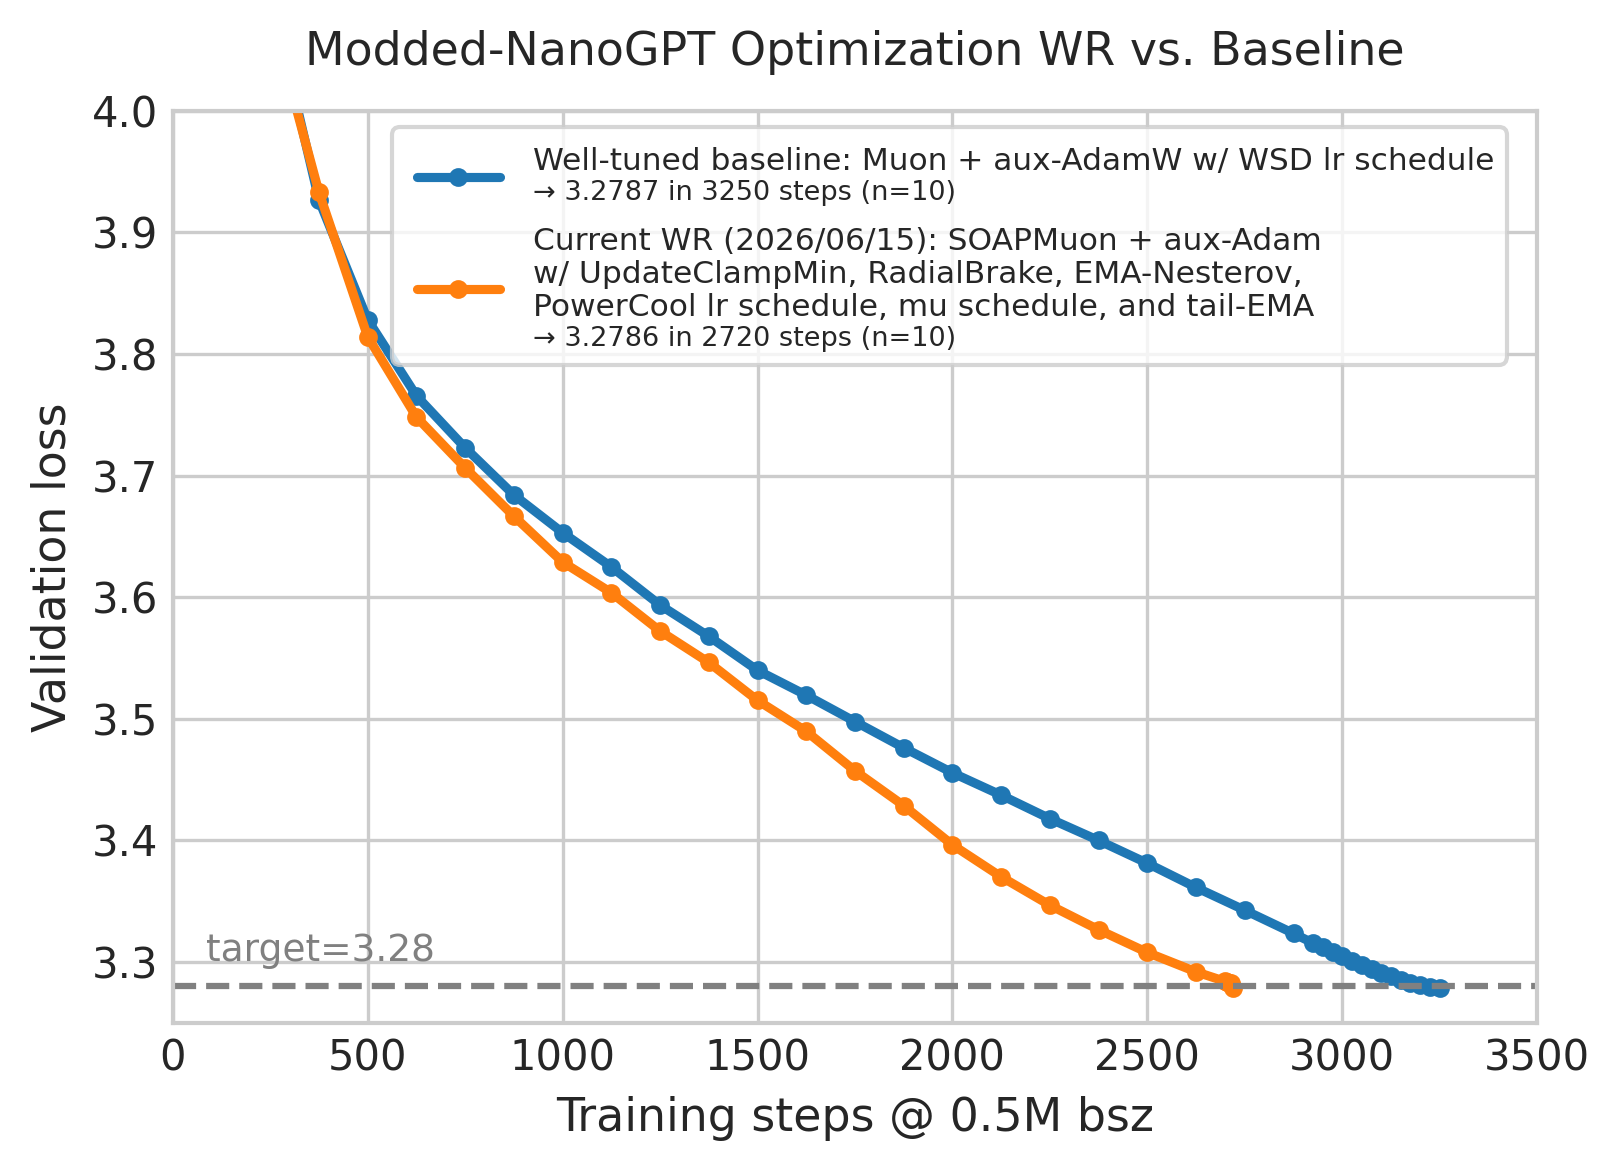
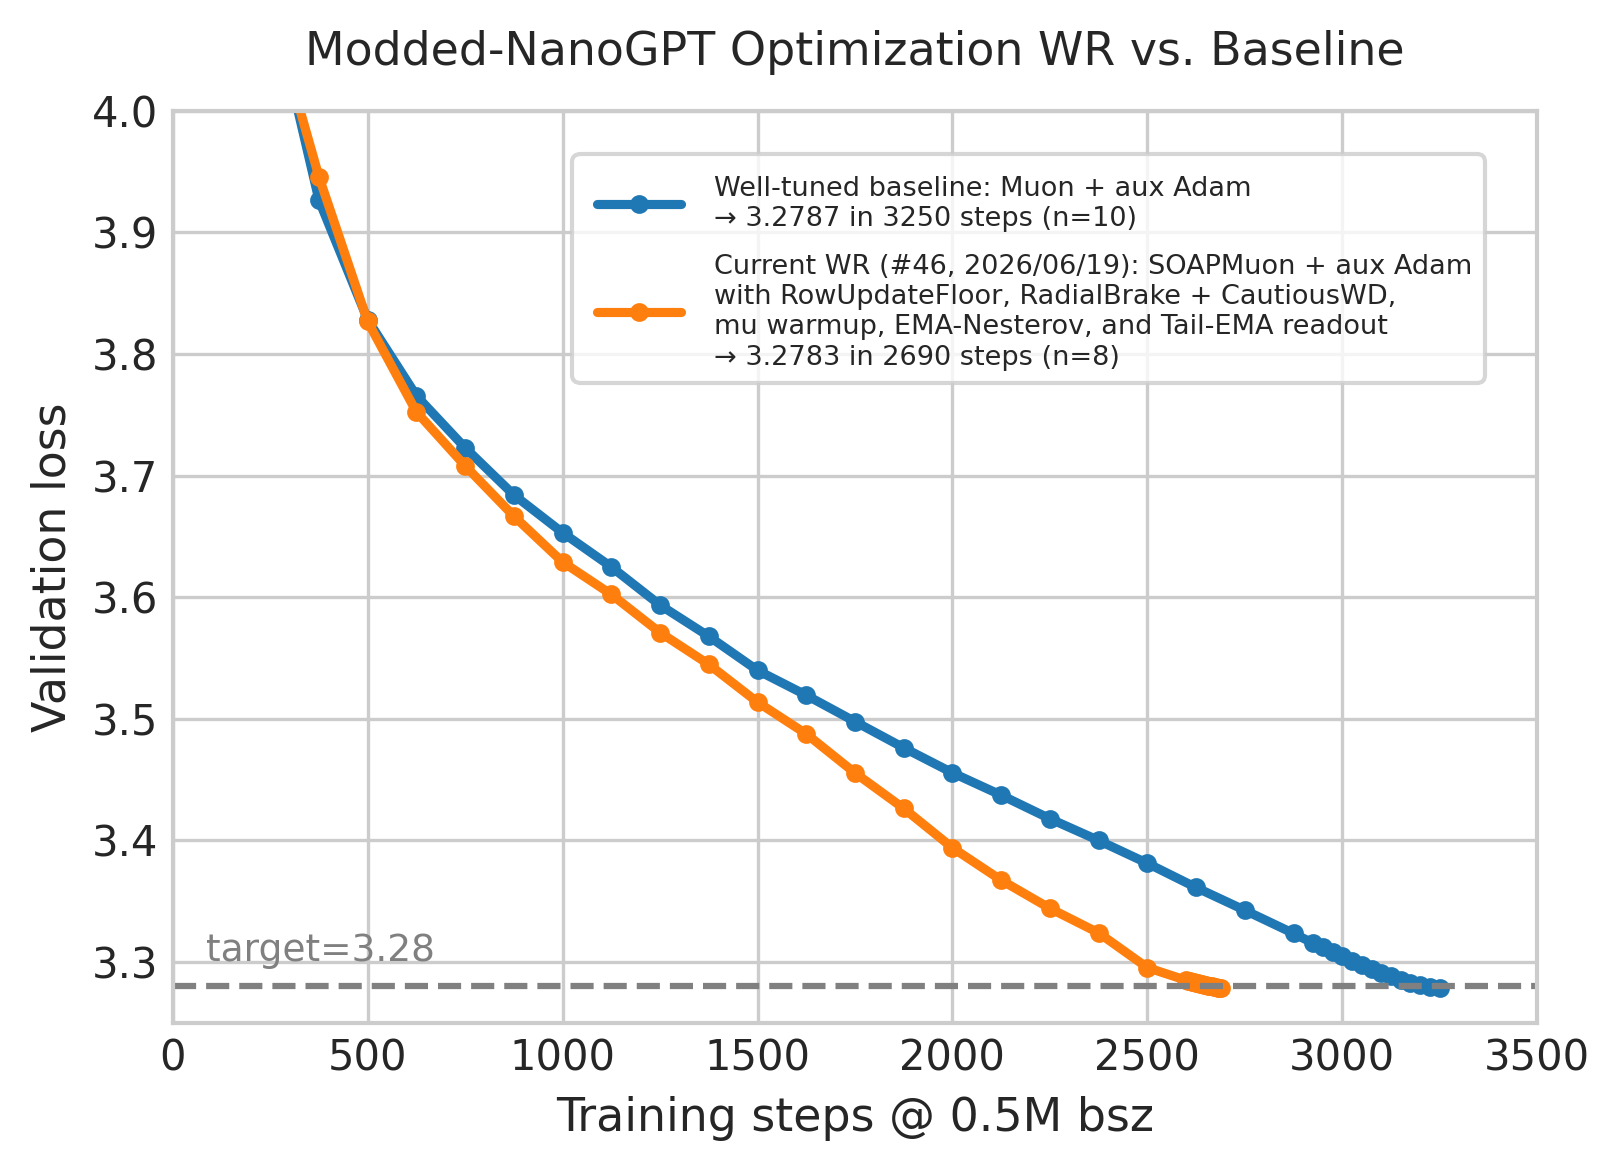
.

diff --git a/records/track_3_optimization/README.md b/records/track_3_optimization/README.md
@@ -170,7 +170,7 @@ Notes: Several active details have yet to be proven independently beneficial. We
 
 <img src="img/figure_wr_vs_base.png" width="50%">
 
-Figure 1. The current WR is a ~19.5% speedup compared to a well-tuned baseline.
+Figure 1. The current WR is a 20.8% speedup compared to a well-tuned baseline.
 
 
 